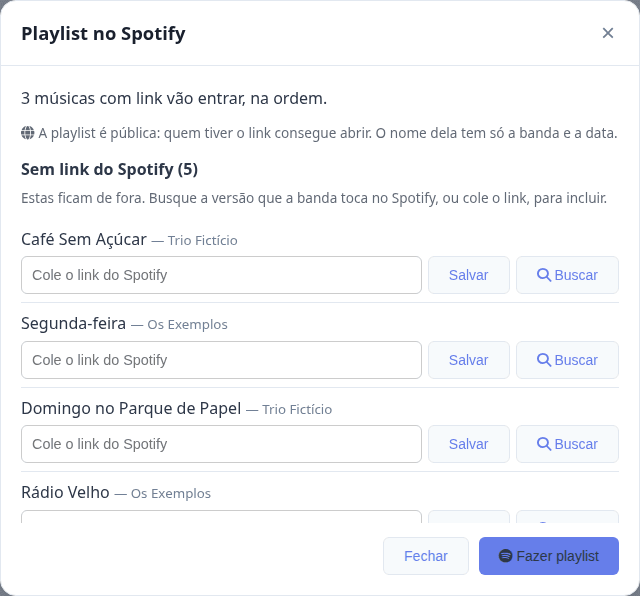
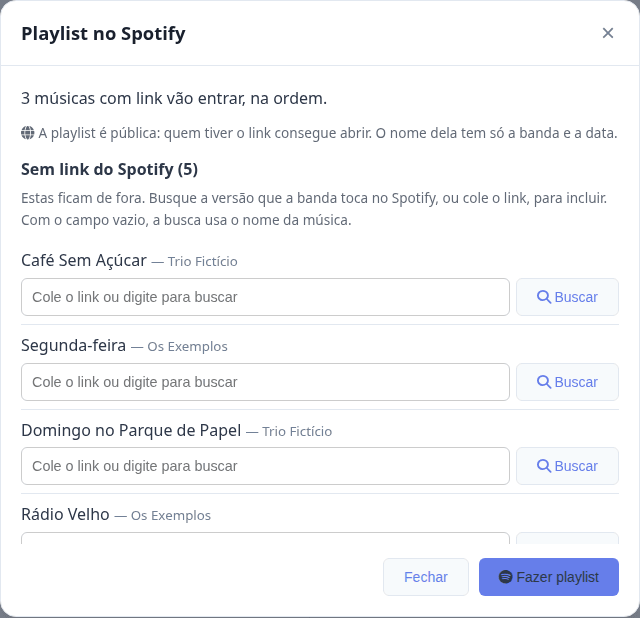
MB-15: One field and button both search Spotify and take a link
In the playlist dialog, Enter in a song's field with a name typed was
taken as a pasted link and refused as invalid. The field now takes
either: text that looks like a link (http, www, spotify:, or a
domain/path) is checked and saved, so an album link still gets the
invalid-link message; any other text is searched on Spotify as typed;
an empty field searches by the song's title and artist as before. The
one button shows Buscar, or Salvar once a link is in the field.

The search endpoint takes an optional q, up to 200 characters, still
reading the song only within the request's band. The manual explains
it, with the dialog's screenshot taken again.

diff --git a/frontend/src/components/SpotifyPlaylist.vue b/frontend/src/components/SpotifyPlaylist.vue
@@ -2,7 +2,7 @@
 import { computed, onMounted, ref } from 'vue'
 import { useI18n } from 'vue-i18n'
 import { useAuth } from '../composables/useAuth'
-import { isSpotifyLink } from '../utils/spotify'
+import { isSpotifyLink, looksLikeLink } from '../utils/spotify'
 import Modal from './Modal.vue'
 
 // The "Playlist no Spotify" button and its dialog (MB-17). The playlist is made in the
@@ -87,11 +87,23 @@ function duration(ms) {
   return `${Math.floor(seconds / 60)}:${String(seconds % 60).padStart(2, '0')}`
 }
 
-async function search(song) {
+// The one field takes a link or words: a link is saved, words (or nothing, for the song's own
+// title and artist) are searched on Spotify
+function isLinkDraft(song) {
+  return looksLikeLink(drafts.value[song.id])
+}
+
+function submit(song) {
+  if (isLinkDraft(song)) saveLink(song)
+  else search(song, (drafts.value[song.id] ?? '').trim())
+}
+
+async function search(song, words = '') {
   searchingId.value = song.id
   draftErrors.value = { ...draftErrors.value, [song.id]: '' }
   try {
-    const response = await fetch(`${apiBaseUrl}/api/spotify/songs/${song.id}/tracks`, { headers: getAuthHeader() })
+    const query = words ? `?${new URLSearchParams({ q: words })}` : ''
+    const response = await fetch(`${apiBaseUrl}/api/spotify/songs/${song.id}/tracks${query}`, { headers: getAuthHeader() })
     const body = await response.json().catch(() => null)
     if (!response.ok) {
       if (body?.code === 'SPOTIFY_UNAVAILABLE') availability.value = 'unavailable'
@@ -165,21 +177,25 @@ onMounted(loadAvailability)
                 {{ song.title }}
                 <small v-if="song.artist">— {{ song.artist }}</small>
               </span>
-              <form class="missing-link" @submit.prevent="saveLink(song)">
+              <form class="missing-link" @submit.prevent="submit(song)">
                 <input
                   v-model="drafts[song.id]"
                   type="text"
-                  inputmode="url"
                   autocomplete="off"
-                  :placeholder="$t('spotify.pasteLink')"
-                  :aria-label="$t('spotify.pasteLink')"
+                  :placeholder="$t('spotify.linkOrSearch')"
+                  :aria-label="$t('spotify.linkOrSearch')"
                 />
-                <button type="submit" :disabled="savingId === song.id" class="btn-secondary btn-small">
+                <button
+                  v-if="isLinkDraft(song)"
+                  type="submit"
+                  :disabled="savingId === song.id"
+                  class="btn-secondary btn-small save-link"
+                >
                   {{ $t('actions.save') }}
                 </button>
                 <button
-                  type="button"
-                  @click="search(song)"
+                  v-else
+                  type="submit"
                   :disabled="searchingId === song.id || disabled"
                   class="btn-secondary btn-small search-song"
                 >

diff --git a/frontend/src/components/SpotifyPlaylist.spec.js b/frontend/src/components/SpotifyPlaylist.spec.js
@@ -69,7 +69,7 @@ describe('SpotifyPlaylist', () => {
       if (url.endsWith('/api/spotify/status')) return reply(200, { data: { availability } })
       if (url.endsWith('/api/spotify/playlists/events/7')) return makeReply()
       if (options.method === 'PATCH') return reply(200, { data: { id: 4, spotifyUrl: JSON.parse(options.body).spotifyUrl } })
-      if (url.endsWith('/api/spotify/songs/4/tracks')) return searchReply()
+      if (url.includes('/api/spotify/songs/4/tracks')) return searchReply()
       return reply(404, {})
     })
   })
@@ -172,7 +172,7 @@ describe('SpotifyPlaylist', () => {
   describe("searching a song's version", () => {
     async function searchFirstMissing(wrapper) {
       await openDialog(wrapper)
-      await wrapper.find('.search-song').trigger('click')
+      await wrapper.find('.missing-link').trigger('submit')
       await flushPromises()
     }
 
@@ -189,6 +189,30 @@ describe('SpotifyPlaylist', () => {
       expect(found[0].find('a.listen').attributes('target')).toBe('_blank')
       expect(found[1].find('img').exists()).toBe(false)
       expect(mockFetch.mock.calls.some(([, o]) => o?.method === 'PATCH')).toBe(false)
+    })
+
+    it('should search the words typed in the link field when Enter is pressed, without saving', async () => {
+      const wrapper = await createWrapper()
+      await openDialog(wrapper)
+      await wrapper.find('.missing-link input').setValue(' malandragem ao vivo ')
+      expect(wrapper.find('.save-link').exists()).toBe(false)
+      await wrapper.find('.missing-link').trigger('submit')
+      await flushPromises()
+
+      const [url] = mockFetch.mock.calls.find(([u]) => u.includes('/tracks'))
+      expect(new URL(url).searchParams.get('q')).toBe('malandragem ao vivo')
+      expect(wrapper.findAll('.track-result')).toHaveLength(2)
+      expect(wrapper.find('.draft-error').exists()).toBe(false)
+      expect(mockFetch.mock.calls.some(([, o]) => o?.method === 'PATCH')).toBe(false)
+    })
+
+    it('should offer Save instead of Search once a link is in the field', async () => {
+      const wrapper = await createWrapper()
+      await openDialog(wrapper)
+      await wrapper.find('.missing-link input').setValue(LINK)
+
+      expect(wrapper.find('.save-link').exists()).toBe(true)
+      expect(wrapper.find('.search-song').exists()).toBe(false)
     })
 
     it('should save the picked track as the song link', async () => {

diff --git a/backend-nest/src/spotify/playlist.service.ts b/backend-nest/src/spotify/playlist.service.ts
@@ -44,6 +44,9 @@ function chunks<T>(items: T[], size: number): T[][] {
   return result;
 }
 
+// Words a member types to search: Spotify allows a long q, a person never needs one
+const MAX_TYPED_SEARCH = 200;
+
 // A value inside a Spotify field filter: its own quotes would end the filter early
 function filterValue(text: string): string {
   return `"${text.replace(/"/g, ' ').replace(/\s+/g, ' ').trim()}"`;
@@ -125,8 +128,9 @@ export class PlaylistService {
   }
 
   // Tracks that may be the version a song of the band is, for a member to pick (MB-15). Nothing
-  // is saved here: the pick goes through the song update.
-  async searchForSong(songId: number): Promise<SpotifyTrackDto[]> {
+  // is saved here: the pick goes through the song update. Words typed by the member replace the
+  // song's title and artist.
+  async searchForSong(songId: number, typed?: string): Promise<SpotifyTrackDto[]> {
     const song = await this.prisma.song.findFirst({
       where: { id: songId, bandId: this.requestContext.requireBandId(), deletedAt: null },
       select: { title: true, artist: true },
@@ -134,6 +138,14 @@ export class PlaylistService {
     if (!song) throw new NotFoundException('Song not found.');
 
     const accessToken = await this.accessToken();
+    const words = (typed ?? '').replace(/\s+/g, ' ').trim().slice(0, MAX_TYPED_SEARCH);
+    if (words) {
+      try {
+        return await searchTracks(accessToken, words);
+      } catch (error) {
+        throw this.spotifyError(error);
+      }
+    }
     const filtered = `track:${filterValue(song.title)}${song.artist ? ` artist:${filterValue(song.artist)}` : ''}`;
     try {
       const tracks = await searchTracks(accessToken, filtered);

diff --git a/backend-nest/src/spotify/playlist.service.spec.ts b/backend-nest/src/spotify/playlist.service.spec.ts
@@ -231,10 +231,27 @@ describe('PlaylistService', () => {
       expect(queries()).toEqual(['track:"Pais e Filho" artist:"Legiao Urbana"', 'Pais e Filho Legiao Urbana']);
     });
 
+    it('should search by the words typed instead of the song, as they are', async () => {
+      prisma.song.findFirst.mockResolvedValue({ title: 'Exagerado', artist: 'Cazuza' });
+      fetchMock.mockImplementation(() => reply(200, { tracks: { items: [] } }));
+
+      expect(await service.searchForSong(3, '  exagerado   ao vivo ')).toEqual([]);
+      expect(queries()).toEqual(['exagerado ao vivo']);
+    });
+
+    it('should search by the song when the words typed are only spaces', async () => {
+      prisma.song.findFirst.mockResolvedValue({ title: 'Exagerado', artist: 'Cazuza' });
+      fetchMock.mockImplementation(() => reply(200, found));
+
+      await service.searchForSong(3, '   ');
+      expect(queries()).toEqual(['track:"Exagerado" artist:"Cazuza"']);
+    });
+
     it('should refuse a song of another band without calling Spotify', async () => {
       prisma.song.findFirst.mockResolvedValue(null);
 
       await expect(service.searchForSong(99)).rejects.toThrow('Song not found.');
+      await expect(service.searchForSong(99, 'exagerado')).rejects.toThrow('Song not found.');
       expect(spotifyService.getAccessToken).not.toHaveBeenCalled();
       expect(fetchMock).not.toHaveBeenCalled();
     });

diff --git a/backend-nest/src/spotify/playlist.controller.ts b/backend-nest/src/spotify/playlist.controller.ts
@@ -1,4 +1,4 @@
-import { Controller, Get, Param, ParseIntPipe, Post, UseGuards } from '@nestjs/common';
+import { Controller, Get, Param, ParseIntPipe, Post, Query, UseGuards } from '@nestjs/common';
 import { JwtAuthGuard } from '../auth/jwt-auth.guard';
 import { PlaylistResultDto, PlaylistService } from './playlist.service';
 import { SpotifyTrackDto } from './spotify-api';
@@ -18,10 +18,14 @@ export class PlaylistController {
     return { data: { availability: await this.spotifyService.availability() } };
   }
 
-  // Tracks that may be a song's version, to pick one (MB-15)
+  // Tracks that may be a song's version, to pick one (MB-15): by its title and artist, or by the
+  // words a member typed (q)
   @Get('songs/:id/tracks')
-  async searchForSong(@Param('id', ParseIntPipe) id: number): Promise<{ data: SpotifyTrackDto[] }> {
-    return { data: await this.playlistService.searchForSong(id) };
+  async searchForSong(
+    @Param('id', ParseIntPipe) id: number,
+    @Query('q') q?: string,
+  ): Promise<{ data: SpotifyTrackDto[] }> {
+    return { data: await this.playlistService.searchForSong(id, typeof q === 'string' ? q : undefined) };
   }
 
   @Post('playlists/songs')

diff --git a/frontend/src/utils/spotify.spec.js b/frontend/src/utils/spotify.spec.js
@@ -1,5 +1,5 @@
 import { describe, it, expect } from 'vitest'
-import { isSpotifyLink } from './spotify'
+import { isSpotifyLink, looksLikeLink } from './spotify'
 
 const id = '4uLU6hMCjMI75M1A2tKUQC'
 
@@ -25,4 +25,24 @@ describe('isSpotifyLink', () => {
   ])('refuses %j', (link) => {
     expect(isSpotifyLink(link)).toBe(false)
   })
+})
+
+describe('looksLikeLink', () => {
+  it.each([
+    `https://open.spotify.com/track/${id}`,
+    `open.spotify.com/track/${id}`,
+    `https://open.spotify.com/album/${id}`,
+    `spotify:artist:${id}`,
+    'https://spotify.link/abc123',
+    'www.youtube.com/watch?v=1',
+  ])('takes %j as a link', (text) => {
+    expect(looksLikeLink(text)).toBe(true)
+  })
+
+  it.each(['', 'Exagerado', 'Malandragem ao vivo', 'Cássia Eller - Malandragem', 'AC/DC Back in Black', 'Mr. Jones'])(
+    'takes %j as words to search',
+    (text) => {
+      expect(looksLikeLink(text)).toBe(false)
+    },
+  )
 })

diff --git a/frontend/src/utils/spotify.js b/frontend/src/utils/spotify.js
@@ -8,3 +8,10 @@ export function isSpotifyLink(link) {
   const text = String(link ?? '').trim()
   return !text || URI.test(text) || URL.test(text)
 }
+
+// True for text meant as a link, Spotify's or not, rather than words to search for: a link that
+// is not a track still gets the invalid-link message instead of a search
+export function looksLikeLink(text) {
+  const value = String(text ?? '').trim()
+  return /^(https?:\/\/|www\.|spotify:)/i.test(value) || /\bspotify\.(com|link)\//i.test(value) || /^\S+\.[a-z]{2,}\/\S*$/i.test(value)
+}

diff --git a/frontend/src/manual/evento.md b/frontend/src/manual/evento.md
@@ -39,8 +39,10 @@ quando o Spotify está ligado no minhabanda.com.
 
 - Antes de fazer, a janela diz quantas músicas entram e lista as que **não têm link**: elas ficam
   de fora. Para incluir uma, toque em **Buscar**: aparecem algumas versões do Spotify, com a capa,
-  o álbum e a duração. **Ouvir** abre a versão no Spotify, e **Usar esta** guarda o link dela na
-  música. Se a busca não achar a versão certa, cole o link ali mesmo e toque em **Salvar**.
+  o álbum e a duração. Com o campo vazio, a busca usa o nome e o artista da música; para buscar
+  outra coisa (como "ao vivo"), digite no campo e aperte Enter. **Ouvir** abre a versão no
+  Spotify, e **Usar esta** guarda o link dela na música. Se preferir, cole o link no mesmo campo:
+  o botão vira **Salvar**.
 - **Fazer playlist** cria a playlist e mostra **Abrir no Spotify**. Fazer de novo atualiza a
   mesma playlist, com o repertório como estiver.
 - **A playlist é pública:** quem tiver o link consegue abrir, e ela aparece no perfil do
